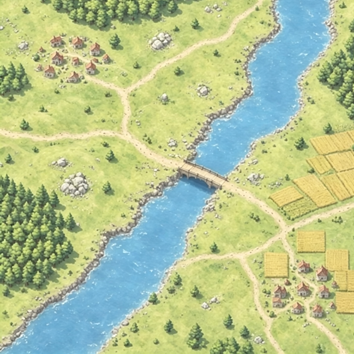
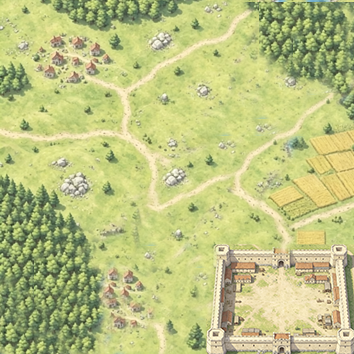
style:修改了1，2关的背景图，使其更符合剧情;略微调整了单位初始位置

diff --git a/game/demo/js/game1.js b/game/demo/js/game1.js
@@ -15,10 +15,10 @@ game1.pieces.push({color:'blue', class: '步', img:IMG_BLUE_infantry, posx: 9.0,
 game1.pieces.push({color:'blue', class: '步', img:IMG_BLUE_infantry, posx: 9.0, posy: 9.0, speed: MOVING_SPEED_standard, atkrange: ATK_RANGE_standard, atk: ATK_standard, lp: LP_standard});
 
 game1.pieces.push({color: 'red', class: '步', img: IMG_RED_infantry, posx: 3.0, posy: 3.0, speed: MOVING_SPEED_standard, atkrange: ATK_RANGE_standard, atk: ATK_standard, lp: LP_standard});
-game1.pieces.push({color: 'red', class: '步', img: IMG_RED_infantry, posx: 3.0, posy: 6.0, speed: MOVING_SPEED_standard, atkrange: ATK_RANGE_standard, atk: ATK_standard, lp: LP_standard});
+game1.pieces.push({color: 'red', class: '步', img: IMG_RED_infantry, posx: 1.65, posy: 6.0, speed: MOVING_SPEED_standard, atkrange: ATK_RANGE_standard, atk: ATK_standard, lp: LP_standard});
 game1.pieces.push({color: 'red', class: '步', img: IMG_RED_infantry, posx: 4.5, posy: 4.5, speed: MOVING_SPEED_standard, atkrange: ATK_RANGE_standard, atk: ATK_standard, lp: LP_standard});
 game1.pieces.push({color: 'red', class: '步', img: IMG_RED_infantry, posx: 6.0, posy: 3.0, speed: MOVING_SPEED_standard, atkrange: ATK_RANGE_standard, atk: ATK_standard, lp: LP_standard});
-game1.pieces.push({color: 'red', class: '步', img: IMG_RED_infantry, posx: 6.0, posy: 6.0, speed: MOVING_SPEED_standard, atkrange: ATK_RANGE_standard, atk: ATK_standard, lp: LP_standard});
+game1.pieces.push({color: 'red', class: '步', img: IMG_RED_infantry, posx: 7.6, posy: 6.0, speed: MOVING_SPEED_standard, atkrange: ATK_RANGE_standard, atk: ATK_standard, lp: LP_standard});
 
 // game1 的所需元素
 

diff --git a/game/demo/js/game2.js b/game/demo/js/game2.js
@@ -13,9 +13,9 @@ game2.pieces.push({color: "blue", class: "步", img: IMG_BLUE_infantry, posx: 0.
 game2.pieces.push({color: "blue", class: "炮", img:IMG_BLUE_artillery, posx: 1.0, posy: 1.0, speed: MOVING_SPEED_slow, atkrange: ATK_RANGE_far, atk: ATK_medium_high, lp: LP_standard});
 
 game2.pieces.push({color:  "red", class: "步", img:  IMG_RED_infantry, posx: 6.0, posy: 6.0, speed: MOVING_SPEED_standard, atkrange: ATK_RANGE_standard, atk: ATK_standard, lp: LP_standard});
-game2.pieces.push({color:  "red", class: "步", img:  IMG_RED_infantry, posx: 6.0, posy: 9.0, speed: MOVING_SPEED_standard, atkrange: ATK_RANGE_standard, atk: ATK_standard, lp: LP_standard});
+game2.pieces.push({color:  "red", class: "步", img:  IMG_RED_infantry, posx: 5.7, posy: 9.2, speed: MOVING_SPEED_standard, atkrange: ATK_RANGE_standard, atk: ATK_standard, lp: LP_standard});
 game2.pieces.push({color:  "red", class: "步", img:  IMG_RED_infantry, posx: 9.0, posy: 6.0, speed: MOVING_SPEED_standard, atkrange: ATK_RANGE_standard, atk: ATK_standard, lp: LP_standard});
-game2.pieces.push({color:  "red", class: "炮", img: IMG_RED_artillery, posx: 9.0, posy: 9.0, speed: MOVING_SPEED_slow, atkrange: ATK_RANGE_far, atk: ATK_medium_high, lp: LP_standard});
+game2.pieces.push({color:  "red", class: "炮", img: IMG_RED_artillery, posx: 9.5, posy: 9.3, speed: MOVING_SPEED_slow, atkrange: ATK_RANGE_far, atk: ATK_medium_high, lp: LP_standard});
 
 // game2 的所需元素
 
